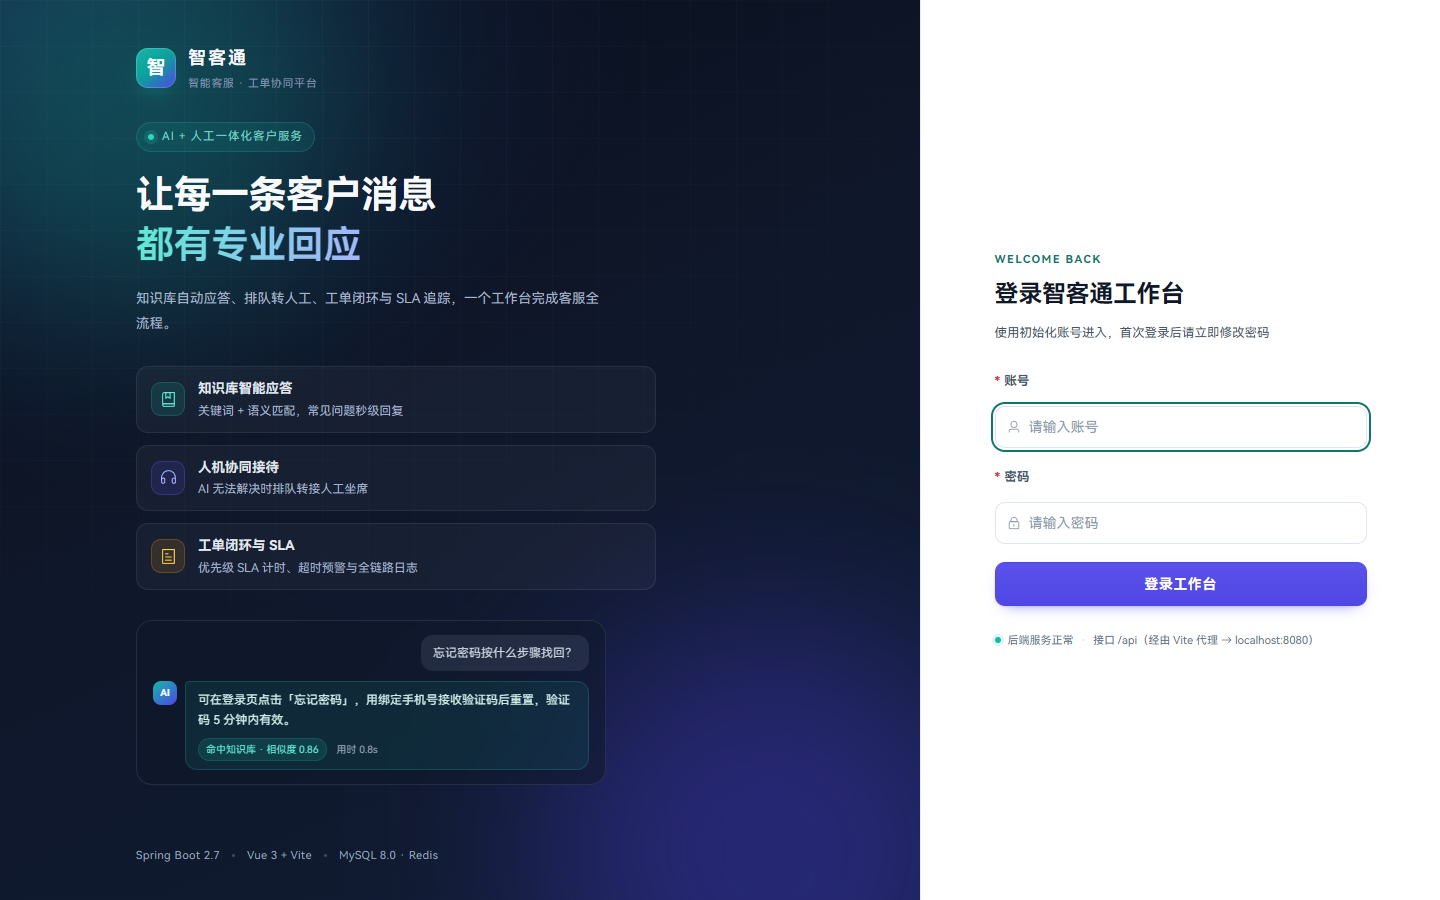
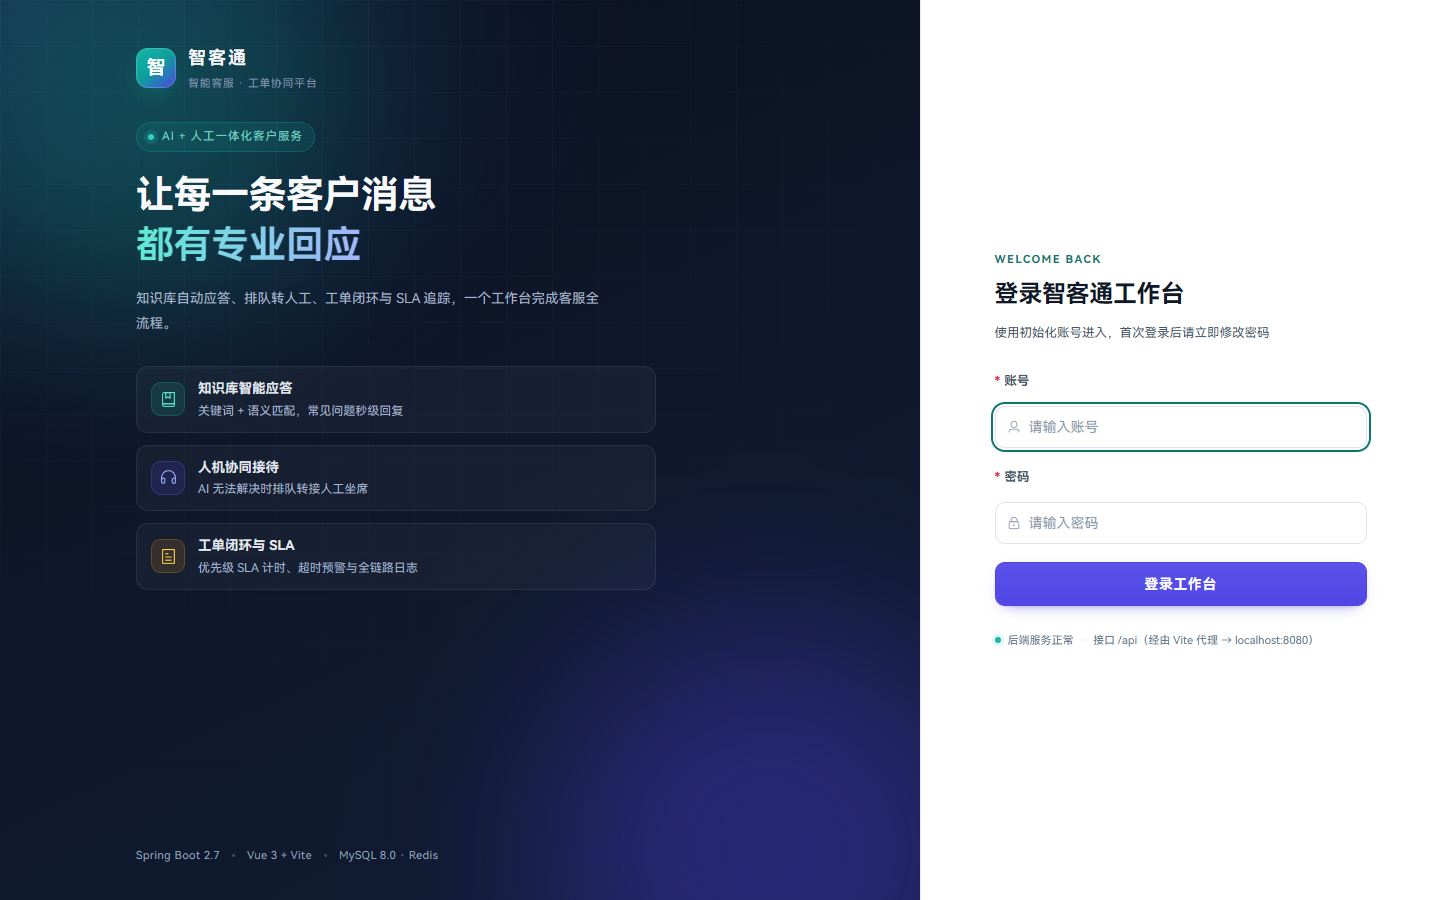
chore(ui): 移除登录页示意对话，清理残留演示文案

Changed region(s): [[0.0938, 0.7156, 0.4062, 0.8711], [0.4062, 0.84, 0.4375, 0.8711]]

diff --git a/frontend/src/views/Login.vue b/frontend/src/views/Login.vue
@@ -41,23 +41,6 @@
           </li>
         </ul>
 
-        <!-- 产品能力示意（静态文案，不参与登录流程） -->
-        <div class="chat-preview" aria-hidden="true">
-          <div class="chat-line chat-line--user">
-            <span class="chat-bubble">忘记密码按什么步骤找回？</span>
-          </div>
-          <div class="chat-line chat-line--ai">
-            <span class="ai-avatar">AI</span>
-            <div class="chat-bubble chat-bubble--ai">
-              可在登录页点击「忘记密码」，用绑定手机号接收验证码后重置，验证码 5 分钟内有效。
-              <div class="chat-meta">
-                <span class="hit-chip">命中知识库 · 相似度 0.86</span>
-                <span class="chat-time">用时 0.8s</span>
-              </div>
-            </div>
-          </div>
-        </div>
-
         <div class="hero-footer">
           <span>Spring Boot 2.7</span>
           <span class="dot-sep" />
